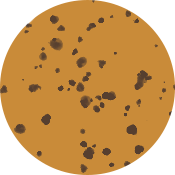
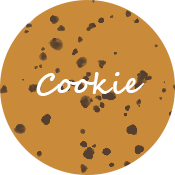
- Fixed button overlaying cookie - Fixed a math bug with the Grandma and Factory upgrade - Removed where the rounding was called until i can fix it + Want to have clicking the cookie be more responsive to the user

Changed region(s): [[0.2, 0.4, 0.8286, 0.5714]]

diff --git a/CookieClickerWPF/MainWindow.xaml b/CookieClickerWPF/MainWindow.xaml
@@ -19,11 +19,7 @@
         <TextBlock x:Name="txt_Cookies" HorizontalAlignment="Left" Margin="10,10,0,0" TextWrapping="Wrap" Text="0" VerticalAlignment="Top" RenderTransformOrigin="-0.498,1.84" Height="36" Width="292" FontSize="24" FontWeight="Bold" TextAlignment="Center"/>
         <Button x:Name="bt_Upgrade" Content="CPS * 2&#xD;&#xA;&#xD;&#xA;Cost : 10" HorizontalAlignment="Left" Margin="10,369,0,0" VerticalAlignment="Top" Width="84" Height="70" Click="bt_Upgrade_Click" RenderTransformOrigin="1.199,0.548"/>
         <TextBlock x:Name="txt_Upgrades" HorizontalAlignment="Left" Margin="10,288,0,0" TextWrapping="Wrap" Text="Upgrades" VerticalAlignment="Top" Height="25" Width="292" FontSize="16" TextAlignment="Center" FontWeight="Bold"/>
-        <Button x:Name="bt_Clicker" Content="Cookie" HorizontalAlignment="Left" Margin="74,101,0,0" VerticalAlignment="Top" Width="162" Height="162" Click="bt_Clicker_Click" FontWeight="Bold" FontSize="20" BorderBrush="#00707070">
-            <Button.Background>
-                <ImageBrush/>
-            </Button.Background>
-        </Button>
+        <Button x:Name="bt_Clicker" Content="" HorizontalAlignment="Left" Margin="74,101,0,0" VerticalAlignment="Top" Width="162" Height="162" Click="bt_Clicker_Click" FontWeight="Bold" FontSize="20" BorderBrush="#00707070" Foreground="#00000000" Background="#00000000" Opacity="0"/>
         <TextBlock x:Name="txt_CPS" HorizontalAlignment="Left" Margin="10,46,0,0" TextWrapping="Wrap" Text="Cookie per second:  1" VerticalAlignment="Top" RenderTransformOrigin="-0.498,1.84" Height="36" Width="292" TextAlignment="Center"/>
         <Button x:Name="bt_Factory" Content="CPS * 0.5&#xD;&#xA;&#xD;&#xA;Cost : 100" HorizontalAlignment="Left" Margin="218,369,0,0" VerticalAlignment="Top" Width="84" Height="70" Click="bt_Factory_Click" RenderTransformOrigin="1.199,0.548"/>
         <Button x:Name="bt_Grandma" Content="CPS * 0.2&#xD;&#xA;&#xD;&#xA;Cost : 25" HorizontalAlignment="Left" Margin="110,369,0,0" VerticalAlignment="Top" Width="84" Height="70" Click="bt_Grandma_Click" RenderTransformOrigin="1.199,0.548"/>

diff --git a/CookieClickerWPF/MainWindow.xaml.cs b/CookieClickerWPF/MainWindow.xaml.cs
@@ -51,6 +51,8 @@ namespace CookieClickerWPF
         void TicTimer(object sender, EventArgs e)
         {
             Cookies = Cookies + CPS;
+            // Cookies = Round(Cookies);
+            // CPS = Round(CPS);
             txt_Cookies.Text = Convert.ToString(Cookies);
         }
 
@@ -59,7 +61,6 @@ namespace CookieClickerWPF
         {
             Cookies = Cookies + CPS;
             
-            Cookies = Round(Cookies);
             txt_Cookies.Text = Convert.ToString(Cookies);
         }
 
@@ -88,7 +89,6 @@ namespace CookieClickerWPF
             // Either way update what the button says the cost is to the new cost
             bt_Upgrade.Content = "CPS * 2\n\nCost : " + UpgradeCost;
 
-            Cookies = Round(Cookies);
             txt_Cookies.Text = Convert.ToString(Cookies);
             txt_CPS.Text = "Cookies per second: " + CPS;
         }
@@ -99,7 +99,7 @@ namespace CookieClickerWPF
             {
                 Cookies = Cookies - GrandmaUpCost;
                 GrandmaUpCost = GrandmaUpCost * 1.5;
-                CPS = CPS * 0.2;
+                CPS = CPS + CPS * 0.2;
                 txt_Cookies.Text = Convert.ToString(Cookies);
             }
             else
@@ -109,8 +109,7 @@ namespace CookieClickerWPF
                 txt_Upgrades.Text = "Upgrades:";
             }
             bt_Grandma.Content = "CPS * 0.2\n\nCost : " + GrandmaUpCost;
-
-            Cookies = Round(Cookies);
+            
             txt_Cookies.Text = Convert.ToString(Cookies);
             txt_CPS.Text = "Cookies per second: " + CPS;
         }
@@ -121,7 +120,7 @@ namespace CookieClickerWPF
             {
                 Cookies = Cookies - FactoryUpCost;
                 FactoryUpCost = FactoryUpCost * 3;
-                CPS = CPS * .5;
+                CPS = CPS + CPS * .5;
                 txt_Cookies.Text = Convert.ToString(Cookies);
             }
             else
@@ -131,8 +130,7 @@ namespace CookieClickerWPF
                 txt_Upgrades.Text = "Upgrades:";
             }
             bt_Factory.Content = "CPS * 0.5\n\nCost : " + FactoryUpCost;
-
-            Cookies = Round(Cookies);
+            
             txt_Cookies.Text = Convert.ToString(Cookies);
             txt_CPS.Text = "Cookies per second: " + CPS;
         }
